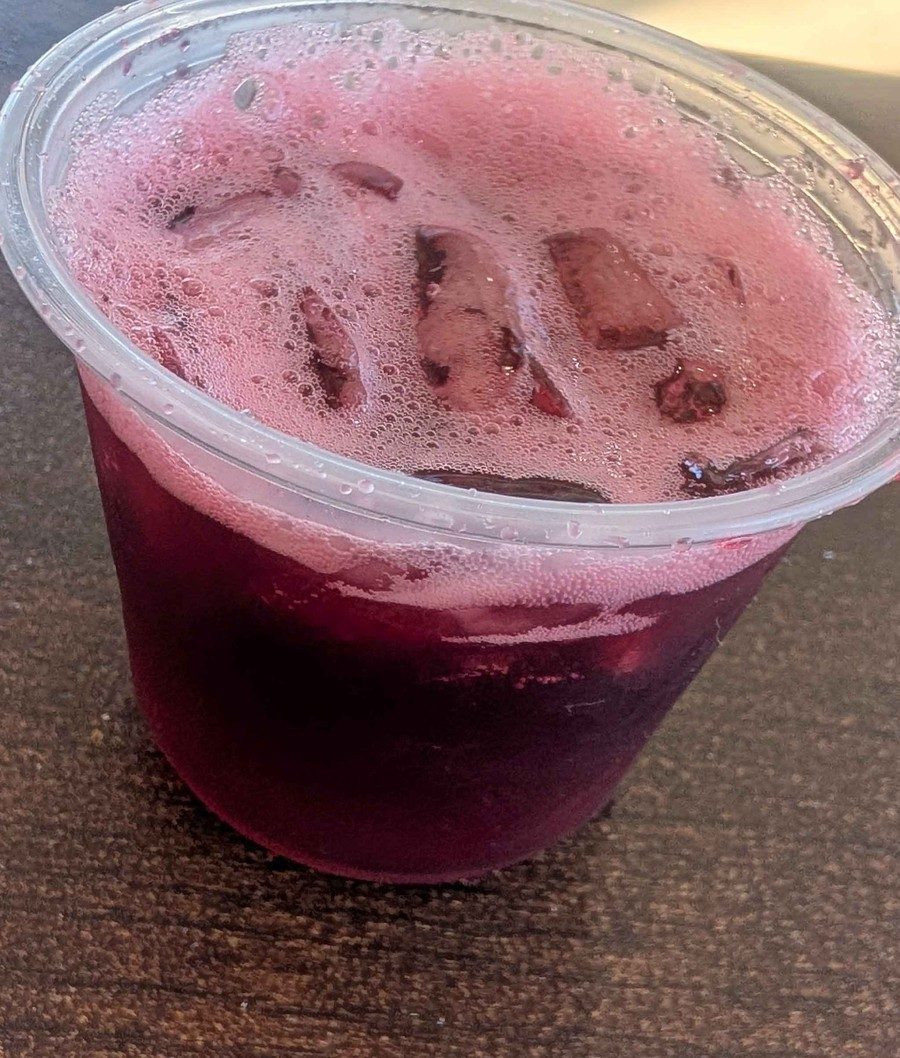
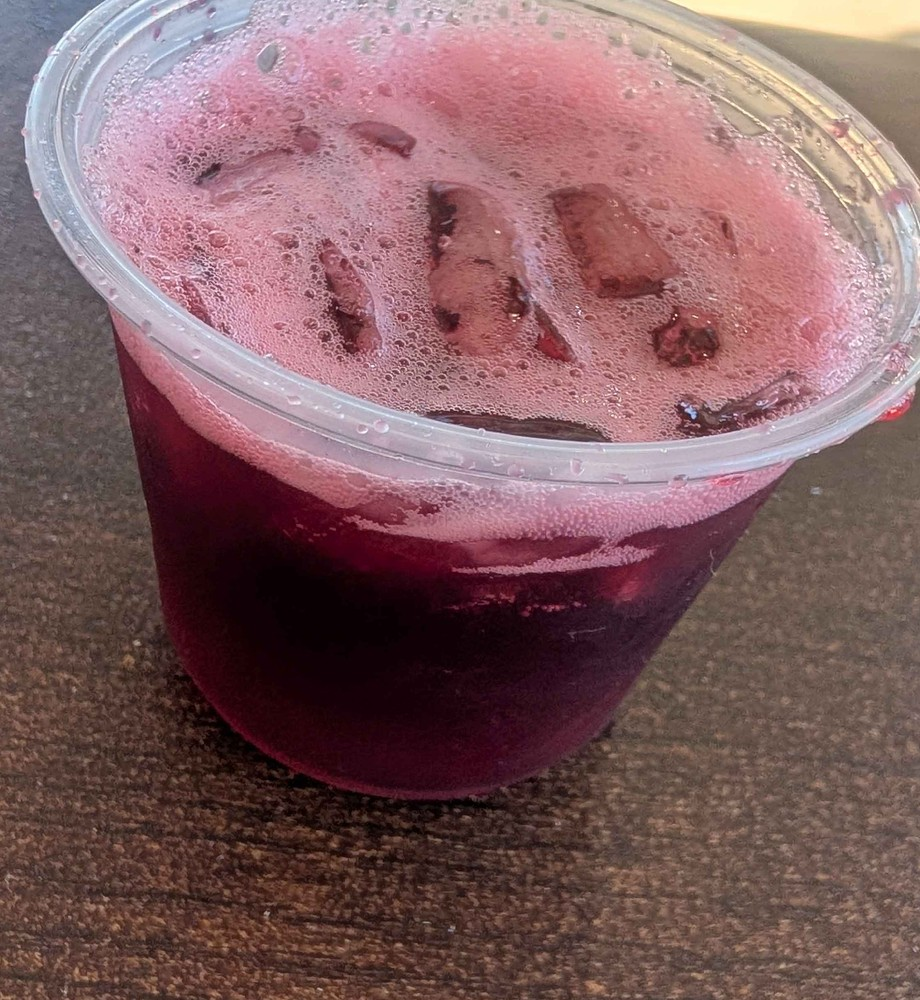
fix(tv): zoom out temp sharbat cup + bust version fingerprint
Looser cup crop so more of the drink/table shows in the full-bleed
card. CI version.json now hashes templates + theme + photos (match
redeploy.sh) so Fully reloads on CSS/photo-only board changes.

diff --git a/html-menus/templates/tv-screen3.html b/html-menus/templates/tv-screen3.html
@@ -620,10 +620,10 @@
     display: block;
     background: #000;
   }
-  /* TEMP full-bleed product shot */
+  /* TEMP full-bleed product shot — looser crop asset; slight center bias */
   .sharbat-card .sharbat-photo.fit-cover img {
     object-fit: cover;
-    object-position: center 38%;
+    object-position: center 48%;
   }
   .sharbat-card .sharbat-overlay {
     position: absolute;
